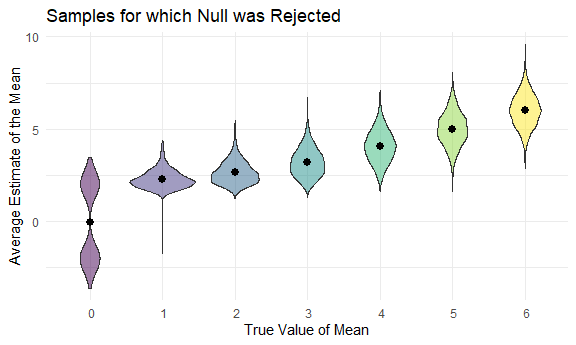
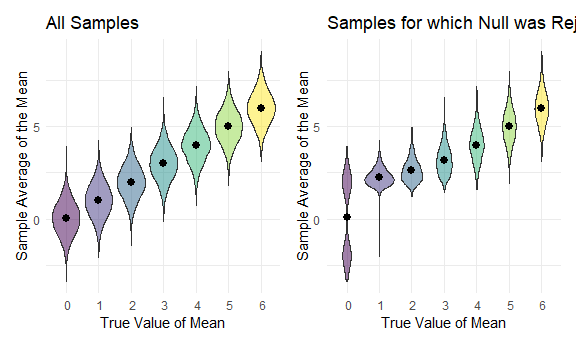
added comments on plots/rearranged plots

diff --git a/p8105_hw5_sne2114.md b/p8105_hw5_sne2114.md
@@ -531,16 +531,16 @@ sim_results %>%
     ## # A tibble: 5,000 x 2
     ##    estimate p.value
     ##       <dbl>   <dbl>
-    ##  1   0.165    0.862
-    ##  2  -0.652    0.484
-    ##  3  -0.249    0.768
-    ##  4   0.337    0.712
-    ##  5   0.460    0.570
-    ##  6   0.352    0.644
-    ##  7   0.192    0.834
-    ##  8   0.0773   0.925
-    ##  9   1.10     0.220
-    ## 10  -1.29     0.163
+    ##  1    0.780  0.518 
+    ##  2    0.437  0.585 
+    ##  3    0.933  0.267 
+    ##  4   -1.24   0.211 
+    ##  5   -0.588  0.573 
+    ##  6    1.01   0.207 
+    ##  7   -0.602  0.558 
+    ##  8    1.31   0.0853
+    ##  9    1.13   0.133 
+    ## 10    0.425  0.625 
     ## # ... with 4,990 more rows
 
 We now repeat for mu = 1,2,3,4,5,6.
@@ -565,16 +565,16 @@ multi_means
     ## # A tibble: 35,000 x 3
     ##    multi_mu estimate p.value
     ##       <dbl>    <dbl>   <dbl>
-    ##  1        0   -0.689 0.466  
-    ##  2        0    0.584 0.542  
-    ##  3        0    0.208 0.838  
-    ##  4        0    0.532 0.567  
-    ##  5        0    0.831 0.451  
-    ##  6        0    0.565 0.592  
-    ##  7        0    0.609 0.484  
-    ##  8        0    1.01  0.280  
-    ##  9        0    0.484 0.599  
-    ## 10        0   -2.94  0.00223
+    ##  1        0  -0.225  0.818  
+    ##  2        0   0.508  0.582  
+    ##  3        0   0.995  0.199  
+    ##  4        0  -0.465  0.670  
+    ##  5        0  -0.0189 0.983  
+    ##  6        0   1.23   0.155  
+    ##  7        0  -0.898  0.437  
+    ##  8        0   2.32   0.00911
+    ##  9        0   0.0220 0.984  
+    ## 10        0   1.27   0.123  
     ## # ... with 34,990 more rows
 
 Plotting the proportion of times a false null hypothesis was rejected
@@ -616,16 +616,10 @@ all_samples_p =
   labs(
     title = "All Samples",
     x = "True Value of Mean",
-    y = "Average Estimate of the Mean") +
+    y = "Sample Average of the Mean") +
   theme(legend.position = "none") + 
   stat_summary(fun = "mean")
-
-all_samples_p
 ```
-
-    ## Warning: Removed 7 rows containing missing values (geom_segment).
-
-<img src="p8105_hw5_sne2114_files/figure-gfm/unnamed-chunk-13-1.png" width="90%" />
 
 Plotting the average estimate of means against the true mean values only
 for samples in which the null hypothesis was rejected (p-value \< 0.05).
@@ -641,13 +635,29 @@ rej_samples_p =
   labs(
     title = "Samples for which Null was Rejected",
     x = "True Value of Mean",
-    y = "Average Estimate of the Mean") +
+    y = "Sample Average of the Mean") +
   theme(legend.position = "none") + 
   stat_summary(fun = "mean")
 
-rej_samples_p
+all_samples_p + rej_samples_p
 ```
 
     ## Warning: Removed 7 rows containing missing values (geom_segment).
+    
+    ## Warning: Removed 7 rows containing missing values (geom_segment).
 
 <img src="p8105_hw5_sne2114_files/figure-gfm/unnamed-chunk-14-1.png" width="90%" />
+
+From these two plots we can see that the average mean estimate and true
+mean are positively correlated with one another. For all samples, the
+relationship between average mean estimate and true mean is almost
+perfectly linear (they basically equal each other at every point).
+However, for only samples in which the null was rejected, we can see
+that the average mean estimate is larger than the true mean for mu =
+1,2,3. Those two values seem to be equal at mu = 4,5,6 , on the other
+hand, probably due to many of the p-values generated at those mu’s being
+smaller than 0.05. In other words, more samples will fulfill the
+criteria of rejecting the null hypothesis, reducing variation for the
+true mean. An interesting case is at mu = 0, where the average mean
+estimate and the true mean are also equal, but due to extreme values on
+both ends/variation (unlike in the plot for all samples).
